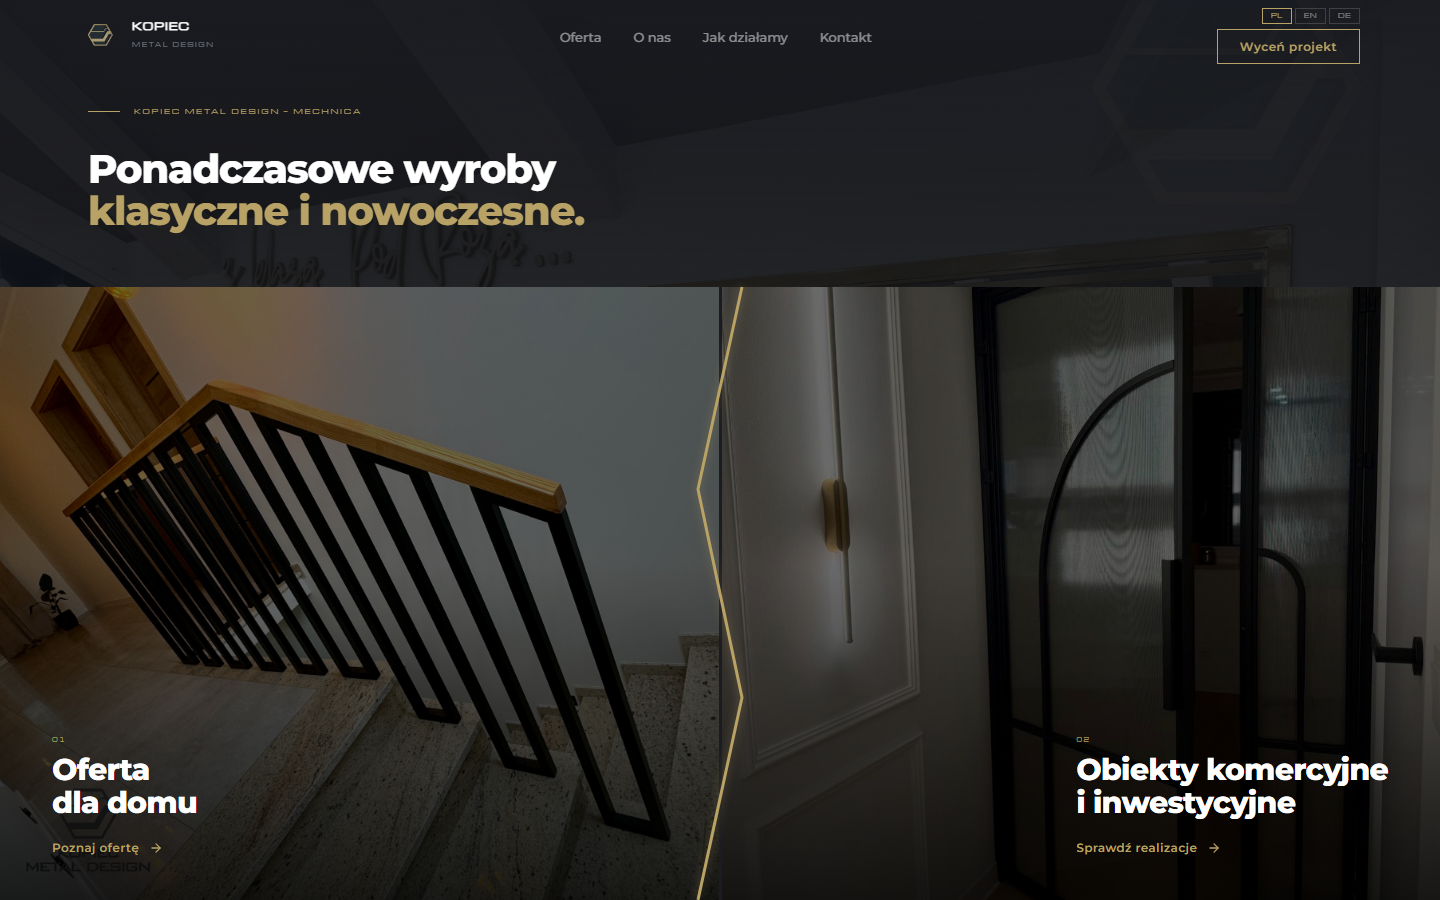
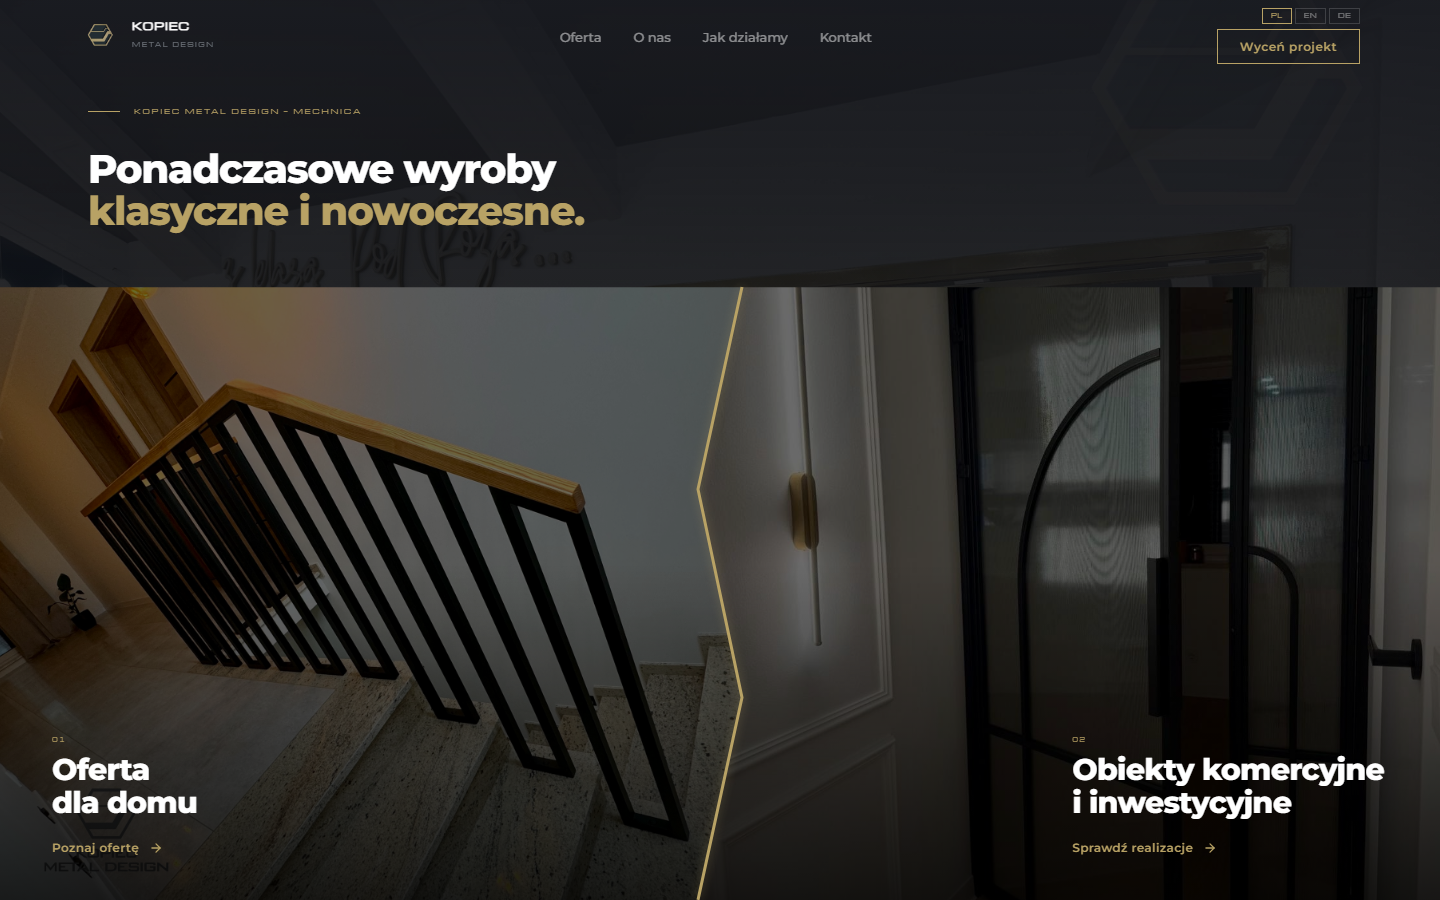
Hero separator: panels clipped to zigzag shape, no visible gap

diff --git a/index.html b/index.html
@@ -146,12 +146,11 @@
       pointer-events: none; user-select: none;
     }
 
-    /* SPLIT — dwa kafelki obok siebie z odstępem */
+    /* SPLIT */
     .hero-split {
       flex: 1; min-height: 0;
-      display: flex; gap: 3px;
       position: relative; z-index: 2;
-      background: var(--antracyt);
+      display: block;
     }
 
     /* Złoty zygzak — geometryczny separator, pełna wysokość */
@@ -165,14 +164,38 @@
       filter: drop-shadow(0 0 5px rgba(184,162,101,0.45));
     }
 
-    /* KAFELKI — proste, bez clip-path */
+    /* KAFELKI — oba absolutne, nakrywają się w strefie zygzaka */
     .hero-panel {
-      flex: 1; position: relative; overflow: hidden;
+      position: absolute; top: 0; bottom: 0;
       display: flex; flex-direction: column; justify-content: flex-end;
       padding: 44px 52px;
-      text-decoration: none;
+      text-decoration: none; overflow: hidden;
     }
-    .hero-panel-right { align-items: flex-end; }
+    /* Lewy: rozciąga się 36px za środek, clip wzdłuż zygzaka */
+    .hero-panel-left {
+      left: 0; width: calc(50% + 36px); z-index: 2;
+      clip-path: polygon(
+        0 0,
+        calc(100% - 14px) 0%,
+        calc(100% - 58px) 33%,
+        calc(100% - 14px) 67%,
+        calc(100% - 58px) 100%,
+        0 100%
+      );
+    }
+    /* Prawy: rozciąga się 36px za środek w lewo, clip wzdłuż zygzaka */
+    .hero-panel-right {
+      right: 0; width: calc(50% + 36px);
+      align-items: flex-end; padding-right: 56px;
+      clip-path: polygon(
+        58px 0,
+        100% 0,
+        100% 100%,
+        14px 100%,
+        58px 67%,
+        14px 33%
+      );
+    }
 
     /* Zdjęcie tła kafelka */
     .hero-panel-img { position: absolute; inset: 0; z-index: 0; }
@@ -754,7 +777,8 @@
       .hero-h1 { font-size: 2.4rem; line-height: 1.12; }
       .hero-h1 br { display: none; }
       .hero-panel { padding: 16px 14px 28px; }
-      .hero-panel-right { align-items: flex-start; padding-right: 14px; }
+      .hero-panel-left { width: calc(50% + 36px); }
+      .hero-panel-right { width: calc(50% + 36px); align-items: flex-start; padding-right: 14px; }
       .hero-panel h3 { font-size: 1.5rem; margin-bottom: 10px; }
       .hero-panel-cta { font-size: 0.95rem; }
 
